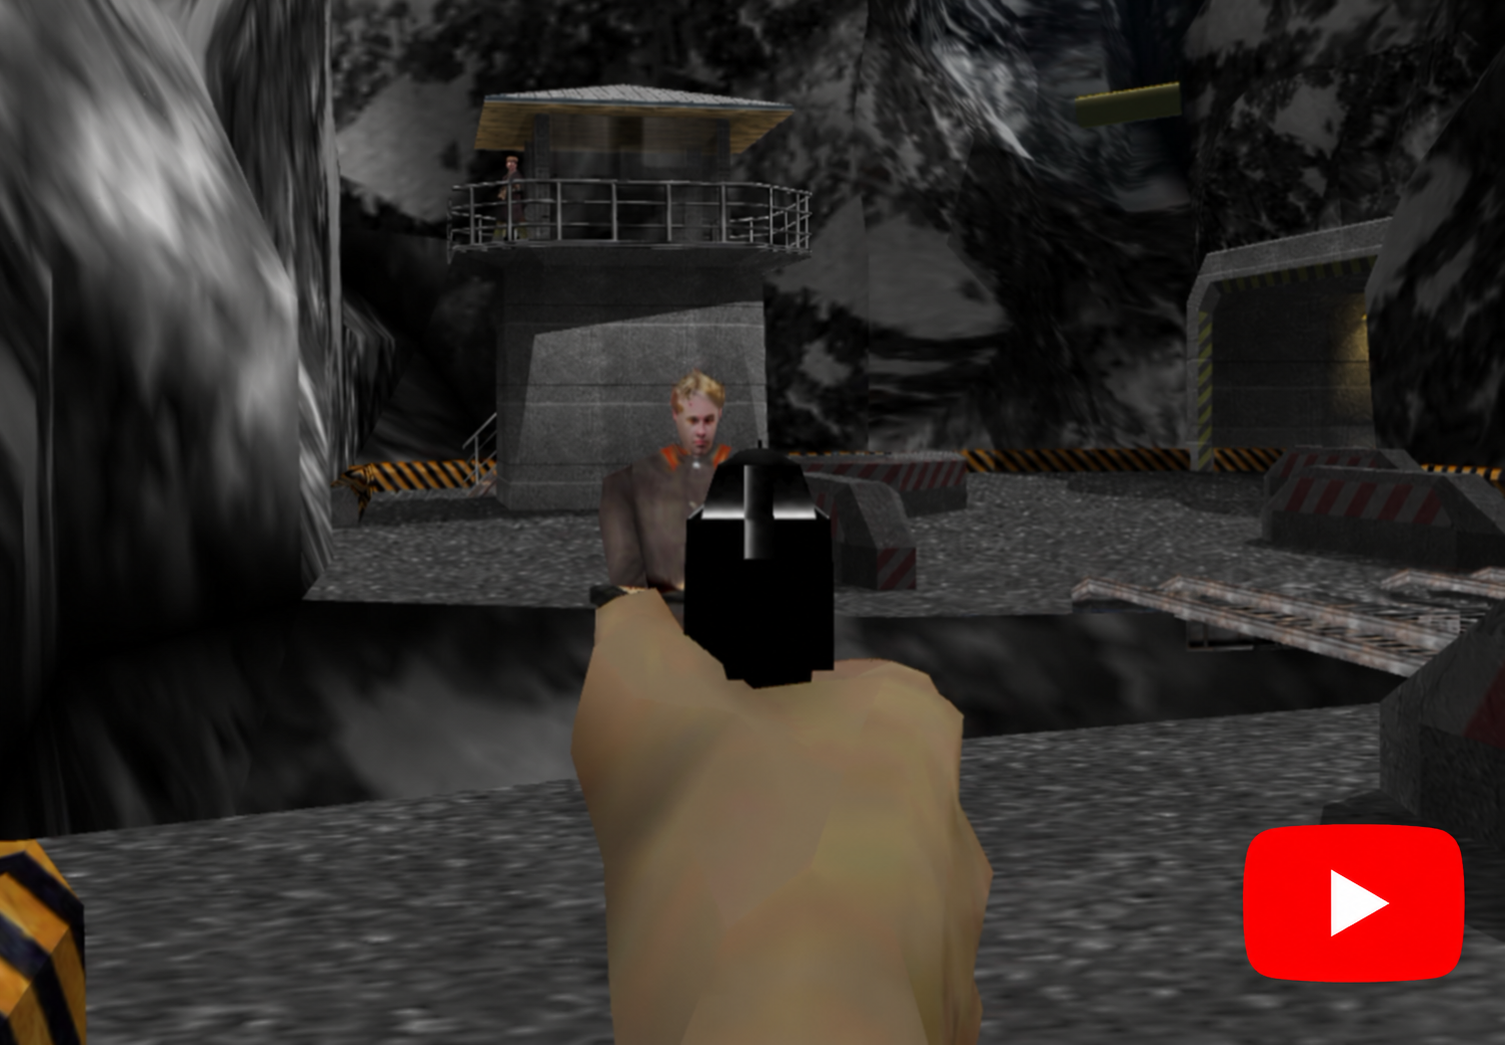
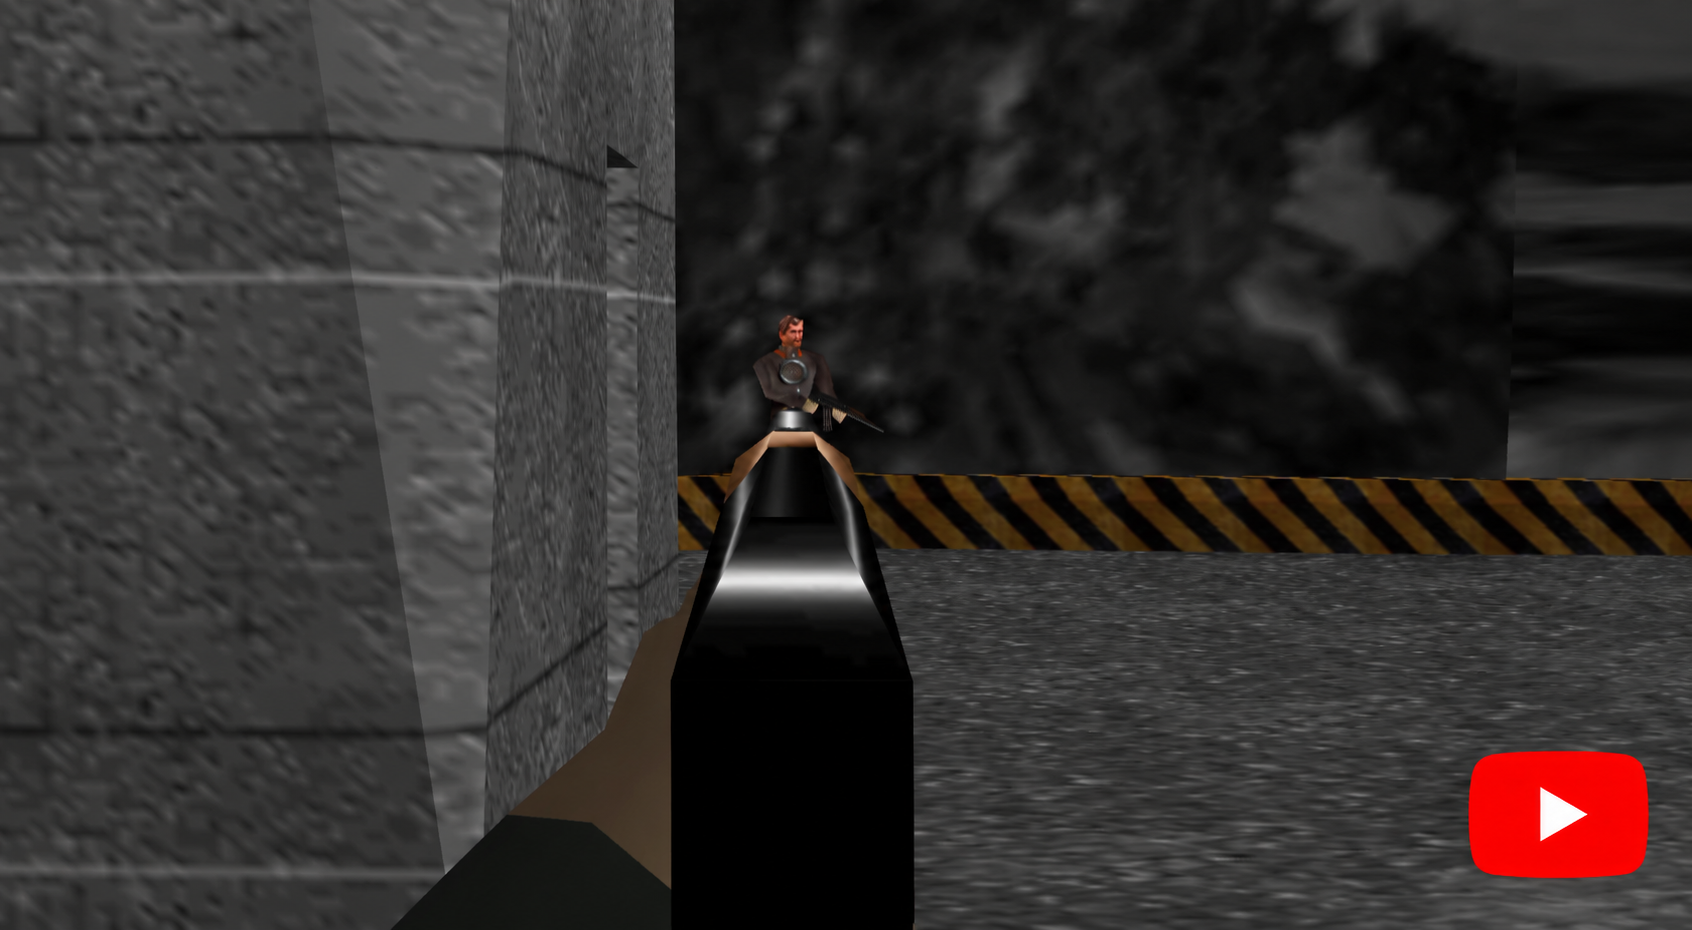
Feature updated ADS gameplay video and screenshot thumbnail

diff --git a/readme.md b/readme.md
@@ -1,10 +1,10 @@
 # Project Midas ADS
 
-## Watch the gameplay demo
+## Watch the latest gameplay demo
 
-[![Watch Project Midas ADS: Dam gameplay and aim-down-sights demo at 60 FPS](.github/images/ads-gameplay-thumbnail.png)](https://youtu.be/pwP-z1nDtEo)
+[![Watch Project Midas ADS update: new hands, improved sights, and sniper scope zoom at 60 FPS](.github/images/ads-gameplay-thumbnail.png)](https://youtu.be/dI-G7Lo12hA)
 
-**[Watch on YouTube: Dam Gameplay & ADS Demo (60 FPS)](https://youtu.be/pwP-z1nDtEo)**
+**[Watch on YouTube: ADS Update — Hands, Better Sights & Sniper Scope Zoom (60 FPS)](https://youtu.be/dI-G7Lo12hA)**
 
 Project Midas ADS is an independent fork of [Project Midas](https://github.com/murkantor/Project-Midas), focused on adding aim-down-sights (ADS) controls to the GE PC port. This fork is maintained separately from the upstream Project Midas project.
 
